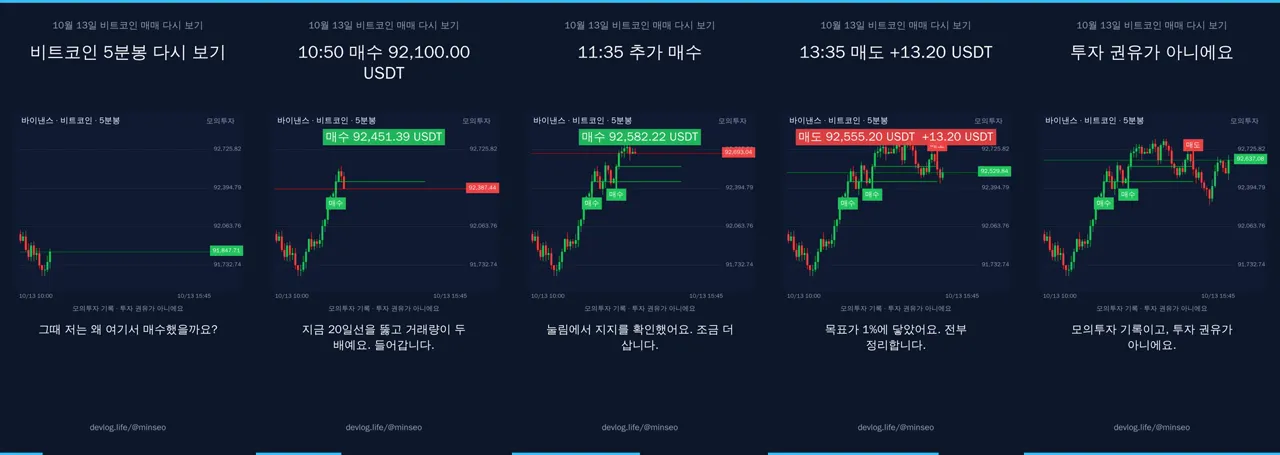
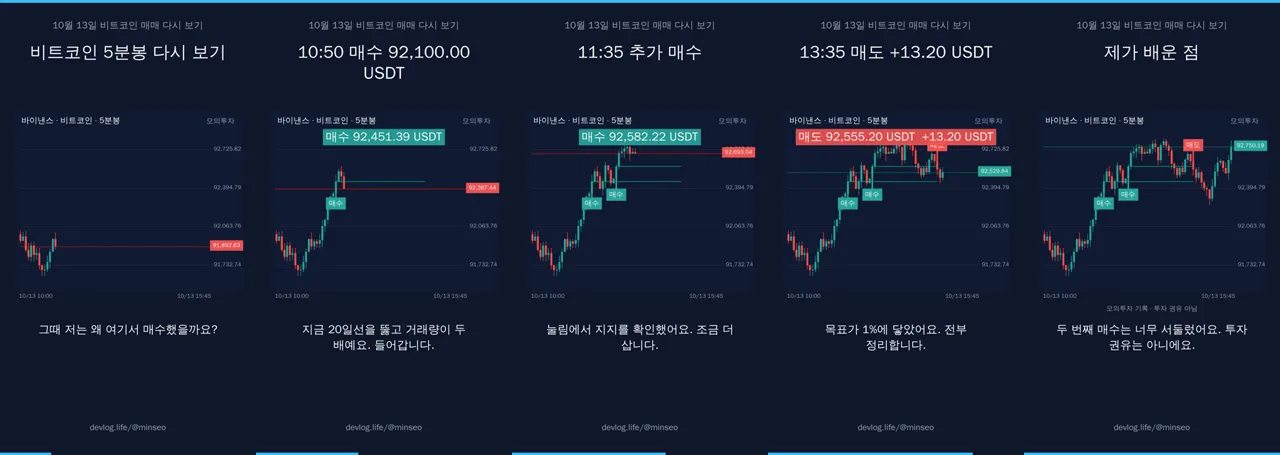
feat: 매매 재현 영상의 투자 권유 고지를 맨 끝에 짧게 (#265)
고지 장면을 따로 두지 않고 마지막 장면 끝에 "투자 권유는 아니에요." 한마디만 붙인다.
워커는 "모의투자 기록 · 투자 권유 아님"을 늘 띄우던 것을 마지막 장면에만 작게 적는다.
AI 다시 쓰기 안내·스펙·화면 안내 문구도 같이 바꿨다.

Claude-Session: https://claude.ai/code/session_01VdeVLo1YtAJa8qP1qUPqvV

diff --git a/app/frontend/src/lib/locales/ja.ts b/app/frontend/src/lib/locales/ja.ts
@@ -1666,6 +1666,6 @@ export const ja: Record<string, string> = {
   "매매 재현": "売買リプレイ",
   "모의투자": "模擬投資",
   "차트 {0} ~ {1}": "チャート {0} 〜 {1}",
-  "1번 장면에서 체결 전 흐름을 보여 주고, 2번 장면부터 체결 하나에 장면 하나씩 그 시각에 표시가 찍혀요. 남은 장면은 결과·배운 점·고지예요.": "1番目の場面で約定前の流れを見せ、2番目の場面から約定1件につき1場面ずつ、その時刻に印が付きます。残りの場面は結果・学んだこと・注意書きです。",
+  "1번 장면에서 체결 전 흐름을 보여 주고, 2번 장면부터 체결 하나에 장면 하나씩 그 시각에 표시가 찍혀요. 남은 장면은 결과·배운 점이고, 투자 권유 고지는 맨 끝에 짧게 붙어요.": "1番目の場面で約定前の流れを見せ、2番目の場面から約定1件につき1場面ずつ、その時刻に印が付きます。残りの場面は結果・学んだことで、投資勧誘ではない旨の注意書きは最後に短く付きます。",
   "내 AI에게 대본 부탁하기": "自分のAIに台本を頼む",
 }

diff --git a/app/frontend/src/lib/locales/en.ts b/app/frontend/src/lib/locales/en.ts
@@ -1666,6 +1666,6 @@ export const en: Record<string, string> = {
   "매매 재현": "Trade replay",
   "모의투자": "Paper trading",
   "차트 {0} ~ {1}": "Chart {0} – {1}",
-  "1번 장면에서 체결 전 흐름을 보여 주고, 2번 장면부터 체결 하나에 장면 하나씩 그 시각에 표시가 찍혀요. 남은 장면은 결과·배운 점·고지예요.": "Scene 1 shows the move before the first fill. From scene 2, each fill gets one scene and its marker appears then. The remaining scenes are the result, lessons and disclaimer.",
+  "1번 장면에서 체결 전 흐름을 보여 주고, 2번 장면부터 체결 하나에 장면 하나씩 그 시각에 표시가 찍혀요. 남은 장면은 결과·배운 점이고, 투자 권유 고지는 맨 끝에 짧게 붙어요.": "Scene 1 shows the move before the first fill. From scene 2, each fill gets one scene and its marker appears then. The remaining scenes are the result and lessons, and a short disclaimer closes the video.",
   "내 AI에게 대본 부탁하기": "Ask my AI for a script",
 }

diff --git a/app/frontend/src/lib/locales/zh.ts b/app/frontend/src/lib/locales/zh.ts
@@ -1666,6 +1666,6 @@ export const zh: Record<string, string> = {
   "매매 재현": "交易回放",
   "모의투자": "模拟交易",
   "차트 {0} ~ {1}": "图表 {0} ~ {1}",
-  "1번 장면에서 체결 전 흐름을 보여 주고, 2번 장면부터 체결 하나에 장면 하나씩 그 시각에 표시가 찍혀요. 남은 장면은 결과·배운 점·고지예요.": "第 1 个场景展示成交前的走势，从第 2 个场景起每笔成交对应一个场景，并在那时标出记号。其余场景是结果、心得和声明。",
+  "1번 장면에서 체결 전 흐름을 보여 주고, 2번 장면부터 체결 하나에 장면 하나씩 그 시각에 표시가 찍혀요. 남은 장면은 결과·배운 점이고, 투자 권유 고지는 맨 끝에 짧게 붙어요.": "第 1 个场景展示成交前的走势，从第 2 个场景起每笔成交对应一个场景，并在那时标出记号。其余场景是结果和心得，非投资建议的声明在结尾简短带过。",
   "내 AI에게 대본 부탁하기": "请我的 AI 写脚本",
 }

diff --git a/app/frontend/src/pages/StudioReplay.tsx b/app/frontend/src/pages/StudioReplay.tsx
@@ -167,7 +167,7 @@ export function ReplayInfo({ item, replay }: { item: ShortsItem; replay: TradeRe
           </li>
         ))}
       </ol>
-      <p className="muted small">{t('1번 장면에서 체결 전 흐름을 보여 주고, 2번 장면부터 체결 하나에 장면 하나씩 그 시각에 표시가 찍혀요. 남은 장면은 결과·배운 점·고지예요.')}</p>
+      <p className="muted small">{t('1번 장면에서 체결 전 흐름을 보여 주고, 2번 장면부터 체결 하나에 장면 하나씩 그 시각에 표시가 찍혀요. 남은 장면은 결과·배운 점이고, 투자 권유 고지는 맨 끝에 짧게 붙어요.')}</p>
       <CopyCode label={t('내 AI에게 대본 부탁하기')} code={replayPrompt(item.id)} />
     </section>
   )

diff --git a/app/backend/src/main/java/com/team/blog/trade/application/TradeReplays.java b/app/backend/src/main/java/com/team/blog/trade/application/TradeReplays.java
@@ -42,6 +42,8 @@ public class TradeReplays {
     private static final DateTimeFormatter DATE = DateTimeFormatter.ofPattern("M월 d일").withZone(TradeTexts.KST);
     static final int REASON_SPOKEN_MAX = 90;
     static final int REASON_SPOKEN_MIN = 30;
+    /** 마지막 장면 끝에 붙이는 짧은 고지 */
+    static final String CLOSING = "투자 권유는 아니에요.";
     static final int MEMO_SPOKEN_MAX = 150;
     static final int MEMO_SPOKEN_MIN = 40;
 
@@ -202,15 +204,13 @@ public class TradeReplays {
     private static List<Scene> draft(TradeReplay r, String memo, int memoMax, int reasonMax, boolean brief, boolean noPnl) {
         TradeReplay.Interval interval = TradeReplay.Interval.parse(r.interval()).orElse(TradeReplay.Interval.M15);
         String coin = coin(r);
-        String modeWord = "LIVE".equals(r.mode()) ? "실계좌" : "모의투자";
         List<Scene> out = new ArrayList<>();
         out.add(new Scene(coin + " " + interval.label + " 다시 보기", "그때 저는 왜 여기서 " + side(r.fills().getFirst().side()) + "했을까요? "
                 + (brief ? "그 시각으로 돌려 볼게요." : DATE.format(r.fills().getFirst().executedAt()) + " " + coin + " 차트를 그 시각으로 돌려 볼게요."), null));
         for (TradeReplay.Fill f : r.fills()) out.add(fillScene(r, f, reasonMax, noPnl));
         out.add(resultScene(r));
-        out.add(new Scene("제가 배운 점", (brief ? "제 메모예요. " : "제가 그날 남긴 메모는 이래요. ") + clip(memo, memoMax), null));
-        out.add(new Scene("투자 권유가 아니에요", brief ? modeWord + " 기록이고, 투자 권유가 아니에요."
-                : modeWord + " 기록을 다시 돌려 본 영상이에요. 수익을 약속하지 않고, 투자 권유가 아니에요.", null));
+        // 투자 권유 고지는 맨 끝에 한마디만 붙인다. 화면에는 워커가 마지막 장면에 "모의투자 기록 · 투자 권유 아님"을 작게 적는다
+        out.add(new Scene("제가 배운 점", (brief ? "제 메모예요. " : "제가 그날 남긴 메모는 이래요. ") + clip(memo, memoMax) + " " + CLOSING, null));
         return out;
     }
 

diff --git a/app/backend/src/test/java/com/team/blog/trade/application/TradeReplayScriptTest.java b/app/backend/src/test/java/com/team/blog/trade/application/TradeReplayScriptTest.java
@@ -29,14 +29,14 @@ class TradeReplayScriptTest {
     @Test
     void 체결마다_장면을_두고_고지로_끝난다() {
         List<ShortsScript.Scene> scenes = TradeReplays.scenes(replay(2, "20일선 위로 거래량 두 배"), "두 번째 매수는 서둘렀어요.");
-        assertThat(scenes).hasSize(2 + 4);
+        assertThat(scenes).hasSize(2 + 3);
         assertThat(scenes.get(0).narration()).startsWith("그때 저는 왜 여기서 매수했을까요?");
         assertThat(scenes.get(1).caption()).isEqualTo("10:15 매수 92,100.00 USDT");
         assertThat(scenes.get(1).narration()).isEqualTo("10시 15분, 20일선 위로 거래량 두 배 0 그래서 92,100.00 USDT에 매수했어요.");
         assertThat(scenes.get(2).narration()).contains("+4.50 USDT이 확정됐어요");
         assertThat(scenes.get(3).caption()).isEqualTo("결과 +4.50 USDT");
-        assertThat(scenes.get(4).narration()).endsWith("두 번째 매수는 서둘렀어요.");
-        assertThat(scenes.getLast().narration()).contains("모의투자", "투자 권유가 아니에요");
+        // 고지는 따로 장면을 두지 않고 마지막 장면 끝에 한마디만 붙인다
+        assertThat(scenes.getLast().narration()).endsWith("두 번째 매수는 서둘렀어요. 투자 권유는 아니에요.");
         assertThat(ShortsScript.checkRender(TradeReplays.title(replay(2, "")), scenes)).isEmpty();
         assertThat(OriginalityCheck.check(scenes, null, List.of()).passed()).isTrue();
     }
@@ -45,7 +45,8 @@ class TradeReplayScriptTest {
     void 체결이_많고_이유가_길면_60초_안으로_줄인다() {
         String reason = "가".repeat(200);
         List<ShortsScript.Scene> scenes = TradeReplays.scenes(replay(TradeReplay.FILLS_MAX, reason), "메".repeat(500));
-        assertThat(scenes).hasSize(ShortsScript.SCENES_MAX);
+        assertThat(scenes).hasSize(TradeReplay.FILLS_MAX + 3);
+        assertThat(scenes.getLast().narration()).endsWith("투자 권유는 아니에요.");
         assertThat(ShortsScript.estimateSeconds(scenes)).isLessThanOrEqualTo(ShortsScript.SECONDS_MAX);
         assertThat(ShortsScript.checkSave("t", scenes)).isEmpty();
     }

diff --git a/app/backend/src/main/java/com/team/blog/mcp/application/ShortsTools.java b/app/backend/src/main/java/com/team/blog/mcp/application/ShortsTools.java
@@ -39,9 +39,9 @@ class ShortsTools {
 
     /** 매매 재현 대본(#265) 다시 쓰기 안내. 장면 순서가 영상의 차트 진행과 맞물린다 */
     static final String REPLAY_GUIDE = "매매 재현 영상이에요. 차트는 장면 순서대로 흘러가요: 1번 장면에서 체결 전 흐름을 보여 주고, 2번 장면부터 체결 하나에 장면 하나씩 "
-            + "그 체결 시각에 매수·매도 표시가 찍혀요. 체결 수만큼 체결 장면을 두고, 그 뒤에 결과·배운 점·고지 장면을 두세요. "
+            + "그 체결 시각에 매수·매도 표시가 찍혀요. 체결 수만큼 체결 장면을 두고, 그 뒤에 결과·배운 점 장면을 두세요. "
             + "그 시각에 매매하는 사람처럼 \"지금 사는 이유\"를 현재형으로 말하되, 체결 이유와 사용자 메모에 있는 것만 쓰고 지어내지 마세요. "
-            + "마지막 장면에는 모의투자·실계좌 여부와 '투자 권유가 아니에요'를 남기고, 추천·확실한 수익 같은 표현은 쓰지 마세요.";
+            + "고지는 따로 장면을 두지 말고 마지막 장면 끝에 '투자 권유는 아니에요.' 한마디만 붙이세요(화면에는 영상이 모드와 고지를 작게 적어요). 추천·확실한 수익 같은 표현은 쓰지 마세요.";
 
     static final int CANDIDATES_DEFAULT = 5;
     static final int CANDIDATES_MAX = 10;

diff --git a/app/backend/src/test/java/com/team/blog/trade/TradeReplayTest.java b/app/backend/src/test/java/com/team/blog/trade/TradeReplayTest.java
@@ -96,11 +96,11 @@ class TradeReplayTest extends IntegrationTest {
         assertThat(replay.path("fills").get(0).path("tradeId").asLong()).isEqualTo(buy);
         assertThat(item.path("title").asString()).contains("비트코인", "매매 다시 보기");
         List<String> narrations = item.path("scenes").findValuesAsString("narration");
-        assertThat(narrations).hasSize(3 + 4);
+        assertThat(narrations).hasSize(3 + 3);
         assertThat(narrations.get(0)).endsWith("돌려 볼게요.").contains("왜");
         assertThat(narrations.get(1)).startsWith("10시 15분,").contains("거래량 두 배", "92,100.50 USDT에 매수했어요");
         assertThat(narrations.get(3)).contains("+13.20 USDT");
-        assertThat(narrations).anyMatch(n -> n.contains("두 번째 매수는 너무 서둘렀어요")).anyMatch(n -> n.contains("투자 권유가 아니에요"));
+        assertThat(narrations.getLast()).contains("두 번째 매수는 너무 서둘렀어요").endsWith("투자 권유는 아니에요.");
         assertThat(item.path("estimatedSeconds").asDouble()).isLessThanOrEqualTo(60);
 
         // AI는 get_shorts로 고른 체결·메모·다시 쓰기 규칙을 읽는다

diff --git a/app/render-worker/devlog_render/render.py b/app/render-worker/devlog_render/render.py
@@ -243,8 +243,10 @@ class Renderer:
             else:
                 text(layer.value, layer.size, layer.color, layer.y, layer.x, when, layer.box)
 
-        mode = "실계좌" if (script.replay or {}).get("mode") == "LIVE" else "모의투자"
-        text(f"{mode} 기록 · 투자 권유가 아니에요", 28, MUTED, 1290)
+        if i == len(script.scenes) - 1:
+            # 투자 권유 고지는 영상 맨 끝 장면에만 작게 적는다
+            mode = "실계좌" if (script.replay or {}).get("mode") == "LIVE" else "모의투자"
+            text(f"{mode} 기록 · 투자 권유 아님", 28, MUTED, 1290)
         for k, line in enumerate(layout.wrap(scene.narration, 19, 5)):
             text(line, 48, "white", 1370 + k * 66)
         text(script.footer, 36, MUTED, 1790)

diff --git a/app/backend/src/main/java/com/team/blog/shorts/application/TradeReplay.java b/app/backend/src/main/java/com/team/blog/shorts/application/TradeReplay.java
@@ -18,7 +18,7 @@ import java.util.Optional;
 public record TradeReplay(String exchange, String symbol, String symbolName, String currency, String mode, String interval,
                           Instant from, Instant to, List<Fill> fills) {
 
-    /** 한 영상에 담는 체결 수. 도입 1 + 체결마다 1 + 결과·메모·고지 3 = 장면 10개 안 */
+    /** 한 영상에 담는 체결 수. 도입 1 + 체결마다 1 + 결과·메모 2 = 장면 9개 (고지는 마지막 장면 끝에 붙는다) */
     public static final int FILLS_MAX = 6;
     /** 체결 사이 구간이 이 봉 수 안에 들어오는 가장 짧은 봉을 고른다 */
     static final int SPAN_CANDLES_AUTO = 60;

diff --git a/CHANGELOG.md b/CHANGELOG.md
@@ -12,7 +12,7 @@ main에 이 파일의 맨 위 버전이 새로 들어오면 `.github/workflows/r
 
 ### 추가
 - 매매 일지가 코인 거래소 체결을 받는다. `record_trade`에 거래소(`exchange`)와 통화(`currency`)를 적고, 0.00012345 BTC 같은 소수 수량·가격을 그대로 남긴다. 원화와 USDT는 더하지 않고 손익·수수료를 통화별로 따로 보여 준다. DB `trade`에 `exchange`·`currency` 열이 생기고 금액 자릿수가 넓어진다(V40). (#254)
-- 매매 재현 숏폼: 스튜디오의 [매매 재현 영상]에서 매매 일지의 체결(같은 거래소·종목, 1~6개, 메모를 남긴 날)을 고르면 대본이 생긴다. 렌더 워커가 바이낸스·업비트 공개 캔들(API 키 없음)을 받아 캔들이 흘러가며 체결 시각에 매수·매도가 찍히는 9:16 영상을 만든다. 봉은 자동 또는 1분~1일. 대본은 내 AI가 MCP `get_shorts`로 체결·메모를 읽고 `update_shorts_script`로 "지금 사는 이유" 식으로 다시 쓴다. 양산형 검사·하루 한도·직접 올리기 안내는 다른 쇼츠와 같다. DB `shorts`에 `replay` 열이 생긴다(V45). (#265)
+- 매매 재현 숏폼: 스튜디오의 [매매 재현 영상]에서 매매 일지의 체결(같은 거래소·종목, 1~6개, 메모를 남긴 날)을 고르면 대본이 생긴다. 렌더 워커가 바이낸스·업비트 공개 캔들(API 키 없음)을 받아 캔들이 흘러가며 체결 시각에 매수·매도가 찍히는 9:16 영상을 만든다. 봉은 자동 또는 1분~1일. 대본은 내 AI가 MCP `get_shorts`로 체결·메모를 읽고 `update_shorts_script`로 "지금 사는 이유" 식으로 다시 쓴다. 투자 권유 고지는 따로 장면을 두지 않고 영상 맨 끝에 한마디로 짧게 붙인다. 양산형 검사·하루 한도·직접 올리기 안내는 다른 쇼츠와 같다. DB `shorts`에 `replay` 열이 생긴다(V45). (#265)
 
 ### 바꿈
 - 운영(devlog.life)에서 숏폼 스튜디오와 매매 일지를 켰다(`SHORTS_ENABLED`, `TRADES_ENABLED`). 렌더 워커 토큰은 GitHub Secret `SHORTS_WORKER_TOKEN`으로 넣고, 없으면 대본까지만 만들고 영상은 만들지 않는다. (#256)
@@ -31,7 +31,7 @@ main에 이 파일의 맨 위 버전이 새로 들어오면 `.github/workflows/r
 |---|---|
 | ![재현 대본 PC](https://raw.githubusercontent.com/AIGJ-01-002-blog/devlog/main/assets/releases/unreleased/replay-editor-pc.webp) | ![재현 대본 휴대폰 다크](https://raw.githubusercontent.com/AIGJ-01-002-blog/devlog/main/assets/releases/unreleased/replay-editor-m-dark.webp) |
 
-![재현 영상 장면: 도입 → 매수 → 추가 매수 → 매도 → 고지](https://raw.githubusercontent.com/AIGJ-01-002-blog/devlog/main/assets/releases/unreleased/replay-video-frames.webp)
+![재현 영상 장면: 도입 → 매수 → 추가 매수 → 매도 → 배운 점(끝에 짧은 고지)](https://raw.githubusercontent.com/AIGJ-01-002-blog/devlog/main/assets/releases/unreleased/replay-video-frames.webp)
 
 ## [2.0.0] - 2026-10-14
 

diff --git a/specs/099-shorts-studio/spec.md b/specs/099-shorts-studio/spec.md
@@ -70,8 +70,8 @@
 - **FR-026**: `POST /api/me/shorts/replay {tradeIds, interval}`는 매매 일지와 쇼츠가 모두 켜졌을 때만 있다(아니면 404). 내 체결 1~6개, 같은 거래소·종목·모드(모의/실계좌), 바이낸스·업비트만 받는다. 체결이 있는 날마다 메모가 있어야 한다(409 `TRADE_MEMO_REQUIRED`).
 - **FR-027**: 차트 봉을 고르지 않으면 첫 체결~마지막 체결이 60봉 안에 드는 가장 짧은 봉(1m·5m·15m·1h·4h·1d)을 쓴다. 고른 봉으로 90봉을 넘으면 알맞은 봉을 알려 주고 거절한다. 앞에는 max(20, 구간/3)봉, 뒤에는 max(10, 구간/6)봉을 붙이고, 끝은 지금 봉까지로 자른다.
 - **FR-028**: `shorts.replay`(jsonb, V45)에 거래소·종목·통화·모드·봉·구간·체결(가격·수량·손익·시각·이유)을 남긴다. 대본을 고쳐도 그대로다. 워커 작업(`claim`)에 `replay`가 함께 간다.
-- **FR-029**: 처음 대본은 도입(질문) → 체결마다 한 장면 → 결과 → 메모 → 고지 순서로 60초 안에 넣는다. 넘치면 체결 이유를 빼고, 메모를 줄이고, 체결 장면의 손익 문장을 뺀다. 그날 요약 글이 하나 있으면 원본 글로 잇는다.
-- **FR-030**: 워커는 장면 순서대로 차트를 흘린다. 1번 장면이 시작할 때 첫 체결 전 캔들의 40%가 보이고, k번째 체결은 (k+1)번 장면 시작 0.6초 뒤에 그 캔들·표시·띠(매수/매도 가격, 매도는 손익)가 나온다. 오른쪽 눈금에 지금 가격이 따라 움직이고, 매수 가격 선은 다음 매도까지 이어진다. 색은 이익·매수 초록, 손실·매도 빨강이다. 화면에 모드와 "투자 권유가 아니에요"를 늘 적는다.
+- **FR-029**: 처음 대본은 도입(질문) → 체결마다 한 장면 → 결과 → 메모 순서로 60초 안에 넣고, 고지는 따로 장면을 두지 않고 마지막 장면 끝에 "투자 권유는 아니에요." 한마디만 붙인다. 넘치면 도입·메모 문장을 줄이고, 메모를 줄이고, 체결 이유를 줄이고, 체결 장면의 손익 문장을 빼고, 마지막에 체결 이유를 뺀다. 그날 요약 글이 하나 있으면 원본 글로 잇는다.
+- **FR-030**: 워커는 장면 순서대로 차트를 흘린다. 1번 장면이 시작할 때 첫 체결 전 캔들의 40%가 보이고, k번째 체결은 (k+1)번 장면 시작 0.6초 뒤에 그 캔들·표시·띠(매수/매도 가격, 매도는 손익)가 나온다. 오른쪽 눈금에 지금 가격이 따라 움직이고, 매수 가격 선은 다음 매도까지 이어진다. 색은 이익·매수 초록, 손실·매도 빨강이다. 모드와 "투자 권유 아님"은 마지막 장면에만 작게 적는다.
 - **FR-031**: MCP `get_shorts`(읽기)는 대본 전체와, 재현 영상이면 체결·구간·그날 메모·다시 쓰기 규칙(장면 순서, 현재형 "지금 사는 이유", 지어내지 않기, 고지)을 돌려준다.
 
 ## 범위 밖 (같은 목표의 다른 이슈)
